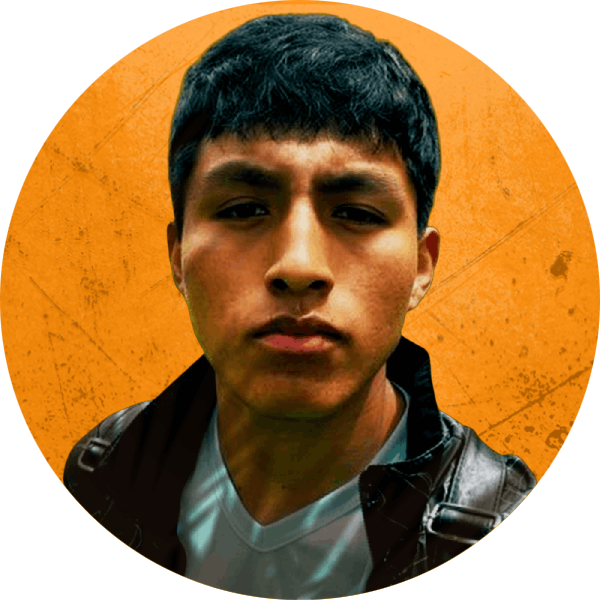
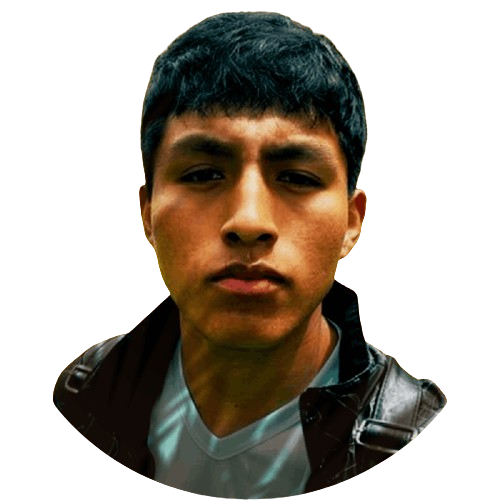
Update gradient.svg styling and viewBox

diff --git a/src/pages/Home.jsx b/src/pages/Home.jsx
@@ -27,7 +27,13 @@ import { Header } from "../components/Header";
 import ScrollAnimation from "../components/ScrollAnimation";
 import { Socials } from "../data";
 import "../styles/styles.css";
+
 export default function Home() {
+  const [prevScrollPos, setPrevScrollPos] = useState(0);
+  const [visible, setVisible] = useState(true);
+  const [darkIcon, setDarkIcon] = useState(<Sun size={20} />);
+  const scroller = scrollSpy;
+  const [activeLink, setActiveLink] = React.useState("home");
   const [openMenu, setOpenMenu] = React.useState(false);
   const navLinks = [
     {
@@ -57,11 +63,7 @@ export default function Home() {
       icon: <Phone size={15} className="" />,
     },
   ];
-  const [prevScrollPos, setPrevScrollPos] = useState(0);
-  const [visible, setVisible] = useState(true);
-  const [darkIcon, setDarkIcon] = useState(<Sun size={20} />);
-  const scroller = scrollSpy;
-  const [activeLink, setActiveLink] = React.useState("home");
+
   const handleSelectMobileMenu = (value) => {
     if (value) {
       scroller.scrollTo(value, {
@@ -120,15 +122,8 @@ export default function Home() {
         backgroundRepeat: "no-repeat",
         backgroundPosition: "center",
       }}
-      className="pb-20 mb-2 min-h-[100dvh] dark:bg-zinc-800 flex flex-col -z-10 space-y-10 lg:justify-center items-center"
+      className="pb-20 mb-2 min-h-[100dvh] dark:bg-zinc-800 flex flex-col lg:justify-around  space-y-10 lg:items-end"
     >
-      <button
-        onClick={handleModeToggle}
-        className="absolute top-10 right-10 duration-500 active:rotate-90"
-      >
-        {darkIcon}
-      </button>
-
       <Header>
         <Menu
           open={openMenu}
@@ -164,41 +159,65 @@ export default function Home() {
                 {link.name}
               </MenuItem>
             ))}
+            <MenuItem
+              onClick={handleModeToggle}
+              className="p-4 flex gap-2 items-center  text-zinc-700 justify-center"
+            >
+              {darkIcon}
+              {localStorage.theme === "dark" ? "Light Mode" : "Dark Mode"}
+            </MenuItem>
           </MenuList>
         </Menu>
       </Header>
-      <header className="hidden lg:flex rounded-lg gap-16 justify-center items-center py-10 ">
-        <span className=" lg:block hidden text-5xl  font-Allura">
-          Brayan Paucar
-        </span>
-        <nav className="font-Source-Sans-Pro hidden lg:inline font-semibold tracking-wide ">
-          <ul className="flex gap-3">
-            {Socials.map((social, index) => (
-              <li
-                data-aos="fade-left"
-                data-aos-duration="1000"
-                data-aos-delay={index * 100 + 500}
-                key={index}
-                className="cursor-pointer"
-              >
-                <Tooltip placement="top" content={social.label}>
-                  <a href={social.url} target="_blank" rel="noreferrer">
-                    <IconButton color="white" variant="gradient" size="md">
-                      <img
-                        title={social.label}
-                        src={social.logo}
-                        alt={social.name}
-                        width={30}
-                        height={30}
-                      />
-                    </IconButton>
-                  </a>
-                </Tooltip>
-              </li>
-            ))}
-          </ul>
-        </nav>
-      </header>
+      <img
+        data-aos="fade-in"
+        data-aos-duration="1000"
+        className="hidden lg:absolute lg:left-40 top-8 lg:inline drop-shadow-xl rounded-full"
+        src={profilePic}
+        width={350}
+        alt="profilePic"
+      />
+      <nav className="hidden lg:flex gap-10 w-[600px] justify-between items-center font-Inter font-semibold tracking-wide text-lg ">
+        <header className="hidden lg:flex lg:flex-col rounded-lg gap-6   py-10 ">
+          <span className=" lg:block hidden text-5xl  font-Allura">
+            Brayan Paucar
+          </span>
+          <nav className="font-Source-Sans-Pro hidden lg:inline font-semibold tracking-wide ">
+            <ul className="flex gap-3">
+              {Socials.map((social, index) => (
+                <li
+                  data-aos="fade-left"
+                  data-aos-duration="1000"
+                  data-aos-delay={index * 100 + 500}
+                  key={index}
+                  className="cursor-pointer"
+                >
+                  <Tooltip placement="top" content={social.label}>
+                    <a href={social.url} target="_blank" rel="noreferrer">
+                      <IconButton color="white" variant="gradient" size="md">
+                        <img
+                          title={social.label}
+                          src={social.logo}
+                          alt={social.name}
+                          width={30}
+                          height={30}
+                        />
+                      </IconButton>
+                    </a>
+                  </Tooltip>
+                </li>
+              ))}
+            </ul>
+          </nav>
+        </header>{" "}
+        <button
+          onClick={handleModeToggle}
+          className="duration-500 absolute bottom-10 left-10 active:rotate-90 border-2 bg-black dark:bg-white text-white dark:text-black dark:border-white/90 border-black/90 rounded-full p-2"
+        >
+          {darkIcon}
+        </button>
+      </nav>
+
       <div className="flex  justify-center items-center lg:flex-row gap-10 lg:gap-0 flex-col-reverse lg:justify-between  lg:mx-28 mt-16 lg:mt-0 font-Inter ">
         <div data-aos="fade-in" data-aos-duration="1000" data-aos-delay="200">
           <div className="flex flex-col gap-2 font-bold text-center text-5xl lg:text-6xl">
@@ -208,20 +227,20 @@ export default function Home() {
                 sequence={["", 500, "WEB", 500]}
                 cursor={false}
                 wrapper="span"
-                className="dark:text-black text-white"
+                className="text-orange-500 dark:text-white"
                 style={{ display: "inline-block" }}
               />
-              <span className=" text-white/90"> & </span>
+              <span className=" text-black"> & </span>
             </span>{" "}
             <TypeAnimation
               sequence={["", 1000, "MOBILE", 500]}
               wrapper="span"
-              className="dark:text-black text-white"
+              className="text-black dark:text-white"
               cursor={false}
               style={{ display: "inline-block" }}
             />
             <TypeAnimation
-              className="dark:text-white/90 text-black"
+              className="text-black "
               sequence={["", 2000, "DEVELOPER", 500]}
               wrapper="span"
               cursor={true}
@@ -230,14 +249,12 @@ export default function Home() {
           </div>
         </div>
       </div>
-
       <ScrollAnimation />
-
       <img
         data-aos="fade-in"
         data-aos-duration="1500"
         data-aos-delay="300"
-        className=" lg:hidden w-[70%]  drop-shadow-lg   "
+        className=" lg:hidden drop-shadow-lg   "
         src={profilePic}
         alt="profilePic"
       />
